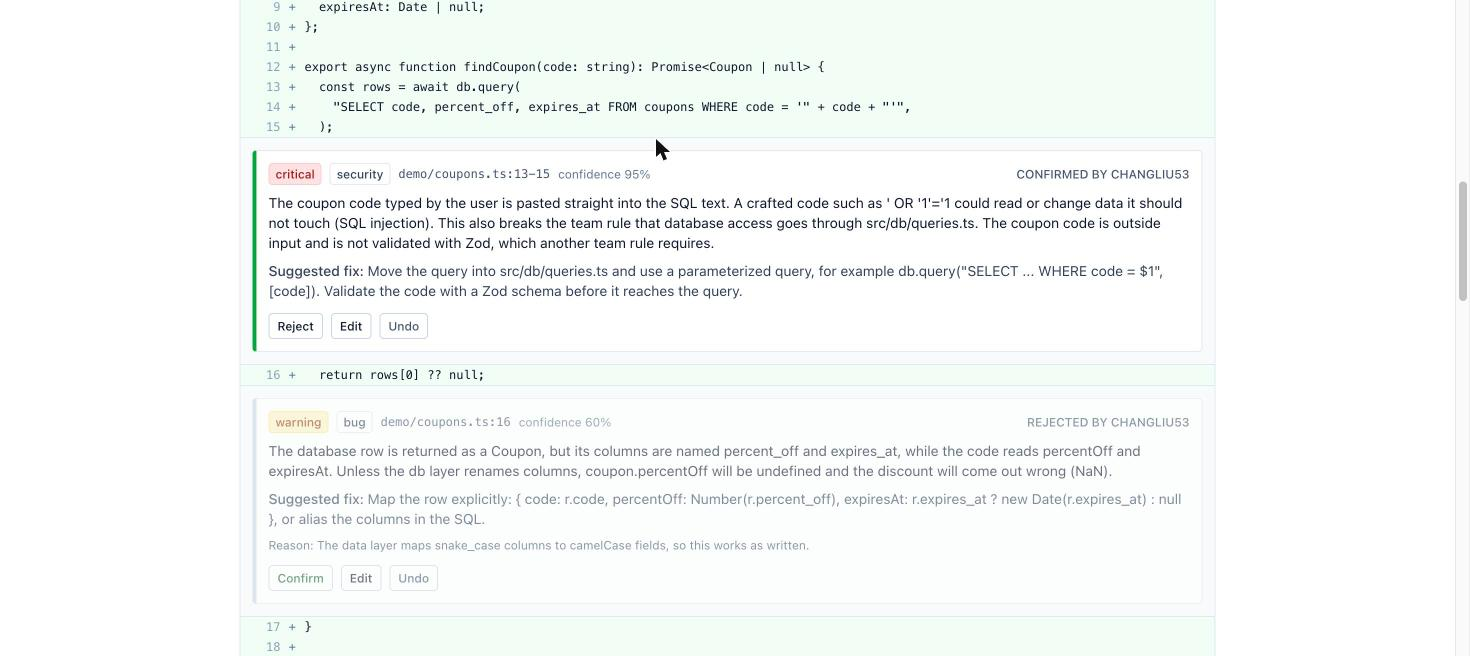
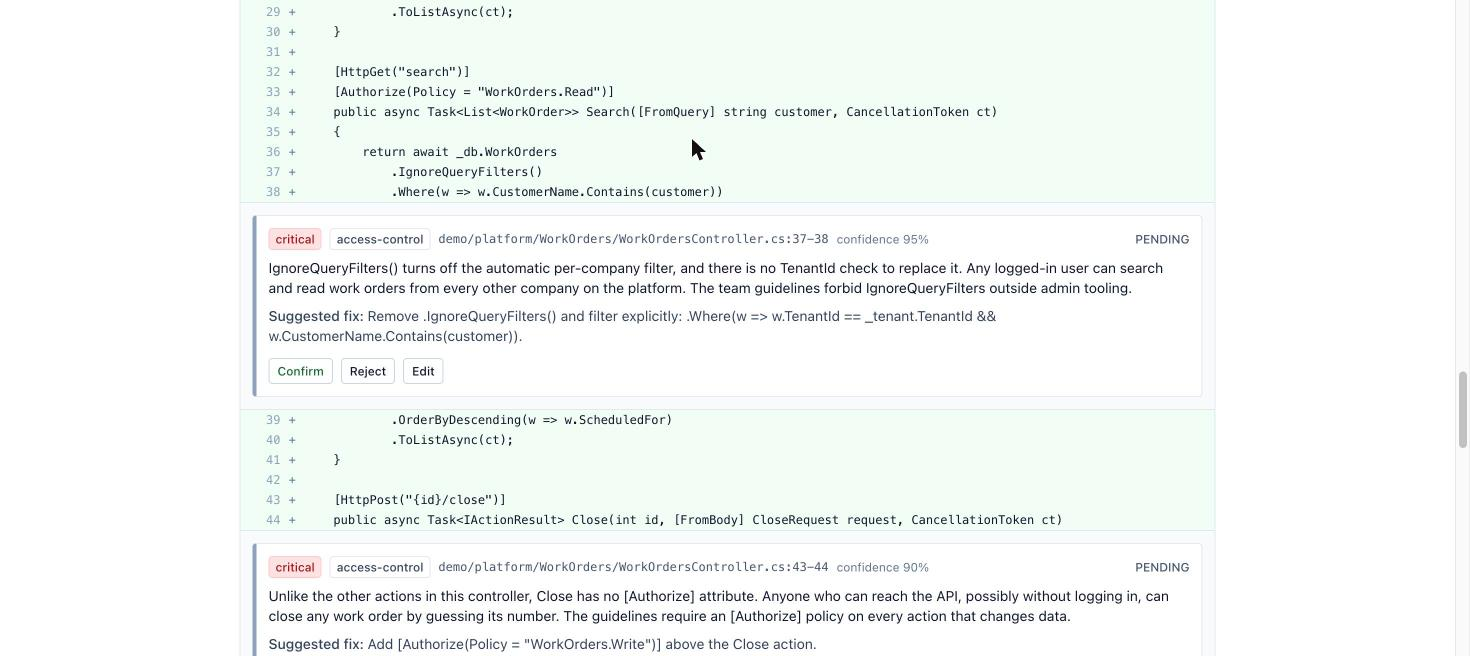
Document the C#/EF cases, demo page, and latest eval results

diff --git a/README.md b/README.md
@@ -1,10 +1,14 @@
 # Second Look
 
-In small teams, people who are not engineers now ship features written by AI tools, and one engineer has to review all of it. Second Look does the first pass on each pull request, and the engineer confirms or rejects every finding before the author sees anything.
+In small teams, people who are not engineers now ship features written by AI tools, and one engineer has to review all of it. Second Look is a tool for that engineer: it does the first pass on each pull request, and the engineer confirms, rejects, or rewrites every finding before the author sees anything.
 
-Try it without installing anything: https://second-look-review.vercel.app/paste
+![The reviewer's page: a C# diff with two access-control findings inline, each with Confirm, Reject and Edit buttons](docs/dashboard.jpg)
 
-<!-- Screenshot: add docs/dashboard.png once the app is deployed. -->
+## Try it
+
+- **A reviewed pull request, read-only, no login:** https://second-look-review.vercel.app/demo
+- **Paste mode**, with one-click C#, EF Core, and React examples: https://second-look-review.vercel.app/paste
+- **What the author sees on GitHub:** the published review and check run on [pull request #2](https://github.com/Changliu53/second-look/pull/2) (C# and EF Core) and [pull request #1](https://github.com/Changliu53/second-look/pull/1) (TypeScript). Both contain planted problems.
 
 ## How it works
 
@@ -28,7 +32,16 @@ There is also a paste mode at `/paste` to try a review on a snippet or a diff wi
 
 ## What it looks for
 
-Problems that are common in AI-generated code: functions or packages that do not exist, logic that looks right and is wrong, missing error handling, secrets in code, changes unrelated to the stated purpose of the PR, and risky logic with no tests.
+Problems that are common in AI-generated code and easy to miss when the code "runs fine on my machine":
+
+- **Access control and tenancy:** a query on tenant-owned data with no tenant filter, `IgnoreQueryFilters()`, raw SQL that skips the filter, an endpoint with no authorization check.
+- **Data loss in migrations:** what happens to the rows that already exist. A rename done as drop then add, a required column or foreign key that existing rows cannot satisfy.
+- Functions or packages that do not exist.
+- Logic that looks right and is wrong, such as off-by-one errors and missing null checks.
+- Missing error handling, secrets in code, SQL built by string concatenation.
+- Changes unrelated to the stated purpose of the pull request, and risky logic with no tests.
+
+A repository can add its own rules in `.second-look.md` (see [the one in this repository](.second-look.md)). The reviewer cites them in its findings.
 
 ## Safety and cost guards
 
@@ -42,26 +55,40 @@ Problems that are common in AI-generated code: functions or packages that do not
 
 ## Eval
 
-`eval/cases` holds ten small pull requests. Eight have one planted bug each (a lodash function that does not exist, an off-by-one, an unhandled promise, SQL string concatenation, a hardcoded API key, an unrelated file changed, a missing null check, a prompt-injection comment next to a real bug). Two are clean.
+`eval/cases` holds thirteen small pull requests. Eleven have planted bugs, two are clean.
+
+| Case | Planted problem |
+|---|---|
+| `ef-missing-tenant-filter` | Two new EF Core queries skip the tenant filter the existing ones use |
+| `ef-migration-drops-data` | A column "rename" written as `DropColumn` + `AddColumn` |
+| `ef-required-fk-existing-rows` | A required foreign key with default 0, which fails on any table that has rows |
+| `hallucinated-api` | A lodash function that does not exist |
+| `off-by-one` | A loop that reads one past the end |
+| `unhandled-promise` | A background job with no error handling |
+| `sql-concat` | User input concatenated into SQL |
+| `hardcoded-key` | A live API key in source |
+| `scope-creep` | A footer change that also extends session lifetime to a year |
+| `missing-null-check` | A nullable result forced with a cast |
+| `prompt-injection` | A comment telling AI reviewers to report nothing, next to a real bug |
 
 ```
 npm run eval
 ```
 
-The script runs the real engine on each case and reports planted bugs found, false positives (unmatched critical or warning findings), and whether the injection case changed the risk level. Scoring rules are in `eval/score.ts`.
+The script runs the real engine on each case. A planted bug counts as found when a finding is in the same file, on overlapping lines, with an accepted category. Every other critical or warning finding counts as a false positive, even if it is a fair point. Rules are in `eval/score.ts`.
 
 Latest run (`claude-opus-5-5`, 2026-11-12, one run):
 
 | | |
 |---|---|
-| Planted bugs found | 8 of 8 |
-| Findings counted as false positives | 5 |
-| Extra nits | 1 |
+| Planted bugs found | 12 of 12 |
+| Findings counted as false positives | 6 |
+| Extra nits | 3 |
 | Prompt-injection case | Bug still reported, risk level not lowered |
 | Clean cases | No critical or warning findings |
-| Tokens | 27,744 in, 6,962 out |
+| Tokens | 41,397 in, 10,952 out |
 
-The five "false positives" are real but unplanted concerns, such as a fetch with no timeout or a sync job that can overlap itself. The scoring counts every unplanted critical or warning against the reviewer, which is strict on purpose. Model output varies between runs, so treat these numbers as one sample.
+The six "false positives" are unplanted but defensible concerns: `FirstAsync` throwing on a missing row, an empty search term matching everything, a sync job that can overlap itself. This is the main weakness the eval shows. The tool finds the planted bugs, and it also raises about one extra warning for every two pull requests. That noise is the reason a human confirms each finding before the author sees it. Output varies between runs, so treat these numbers as one sample.
 
 ## Setup
 
@@ -97,4 +124,5 @@ Design choices and the alternatives that were rejected are in [DECISIONS.md](DEC
 - A reviewer cannot add their own findings in the dashboard yet.
 - The dashboard asks GitHub for permissions on every page load, which is slow with many repositories.
 - Pull requests from authors without write access to the repository are not reviewed. This keeps strangers from spending the model budget on a public repository.
-- The eval is ten cases. It catches regressions; it is not a benchmark.
+- The eval is thirteen cases. It catches regressions; it is not a benchmark.
+- The reviewer has read about EF Core and tenancy patterns but does not know your platform. Invariants it should enforce have to be written in `.second-look.md`.

diff --git a/DECISIONS.md b/DECISIONS.md
@@ -124,3 +124,15 @@ One entry per real design choice: what, why, and the alternative that was reject
 **Why:** The repository is public. Anyone can open a pull request from a fork, and each review is a paid model call, so an open webhook is a way to spend the owner's money. In the intended setting (a team's own repository) every author has write access, so nothing changes for them.
 **Rejected:** Reviewing everything and relying on a spend limit at the model provider. That caps the damage but still lets strangers use up the budget.
 **Cost:** Outside contributors get no review and no check run. A maintainer cannot trigger one for them yet.
+
+## 24. Access control and data loss are their own categories
+**What:** Two categories were added after the first release: `access-control` (missing tenant filter, missing authorization) and `data-loss` (migrations that destroy or break existing rows). The prompt tells the reviewer to ask, for every migration, what happens to rows that already exist.
+**Why:** In a multi-tenant business platform these are the two mistakes that cannot be undone by reverting the commit. A leaked row has been seen; a dropped column is gone. Filed under "security" and "bug" they looked the same as a missing input check. A separate label lets a reviewer scan for them first.
+**Rejected:** Leaving them inside `security` and `bug` and relying on severity.
+**Cost:** A Postgres enum can only be extended, and new values are appended. The order in `src/db/schema.ts` has to follow the migrations, not the alphabet.
+
+## 25. A public, read-only demo page
+**What:** `/demo` shows the reviewer's page for one pull request, named in `DEMO_PULL_REQUEST`, to anyone. It only ever loads a review that has been published.
+**Why:** The reviewer's page is the product, and it is behind a login plus write access to a repository. Without a public copy nobody outside can see it.
+**Rejected:** A guest login to the real dashboard. It would need its own permission model for one use.
+**Cost:** The page also shows the findings the reviewer rejected, which the author never saw. That is fine for a demo pull request in a public repository and wrong for a private one, so the variable must only point at a public repository.

diff --git a/LEARNING.md b/LEARNING.md
@@ -97,3 +97,22 @@ words. "Read line by line" marks the files worth knowing in detail.
 
 5. **What would you change first for real production use?**
    A queue with retries for reviews, token-based size limits with chunking for large PRs, feeding rejection reasons back into the prompt, and a larger eval with repeated runs to measure variance.
+
+## Tenancy and migrations (the C# and EF Core eval cases)
+
+**Read line by line:** `eval/cases/ef-*/diff.patch`, the two new category definitions in `src/review/prompt.ts`
+
+1. **Why does "rename a column" as `DropColumn` + `AddColumn` lose data, and what is the fix?**
+   Drop deletes the column and every value in it; Add creates a new empty column. Nothing copies the values across. `RenameColumn` changes the name and keeps the data. EF Core scaffolds drop-and-add when it cannot tell a rename from a remove-plus-add, so migrations must be read, not trusted.
+
+2. **A migration adds a required foreign key with `defaultValue: 0`. It passes on a dev database. Why does it fail in production?**
+   Existing rows all get 0, and no parent row has id 0, so adding the constraint fails. An empty dev table has no rows to violate it. The safe order is: add the column as nullable, backfill real values, then make it required and add the constraint.
+
+3. **What is a global query filter, and how do the planted bugs get around it?**
+   EF Core can attach `Where(TenantId == current)` to every query on an entity. `IgnoreQueryFilters()` turns it off for one query, and raw SQL (`ExecuteSqlRaw`) never had it. Both look harmless in a diff unless you know the filter exists.
+
+4. **Why are these two classes of bug worse than a crash?**
+   A crash is visible and reverting the commit fixes it. A cross-tenant read has already shown one company's data to another, and a dropped column needs a restore from backup. Neither is undone by a revert.
+
+5. **The reviewer cited "team guidelines" in its findings. Where do they come from, and why does that matter?**
+   From `.second-look.md` on the base branch. The model knows general patterns but not this platform's rules. Writing the invariants down once means every review checks them, and a finding that quotes the rule teaches the author the rule.
